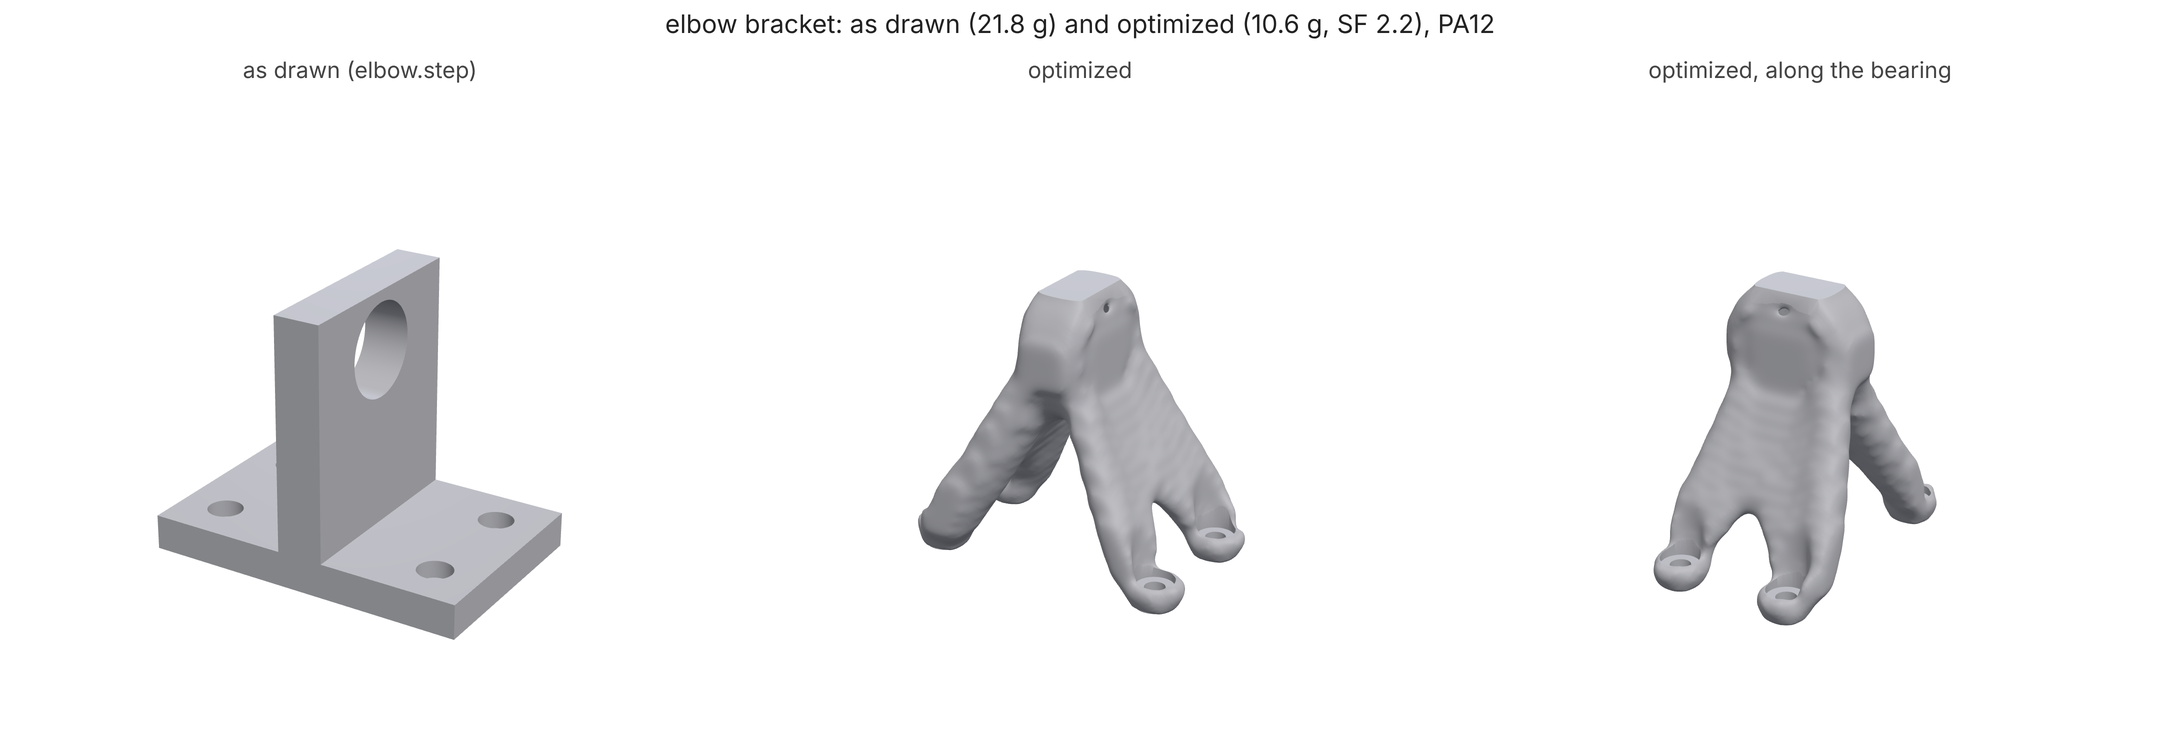
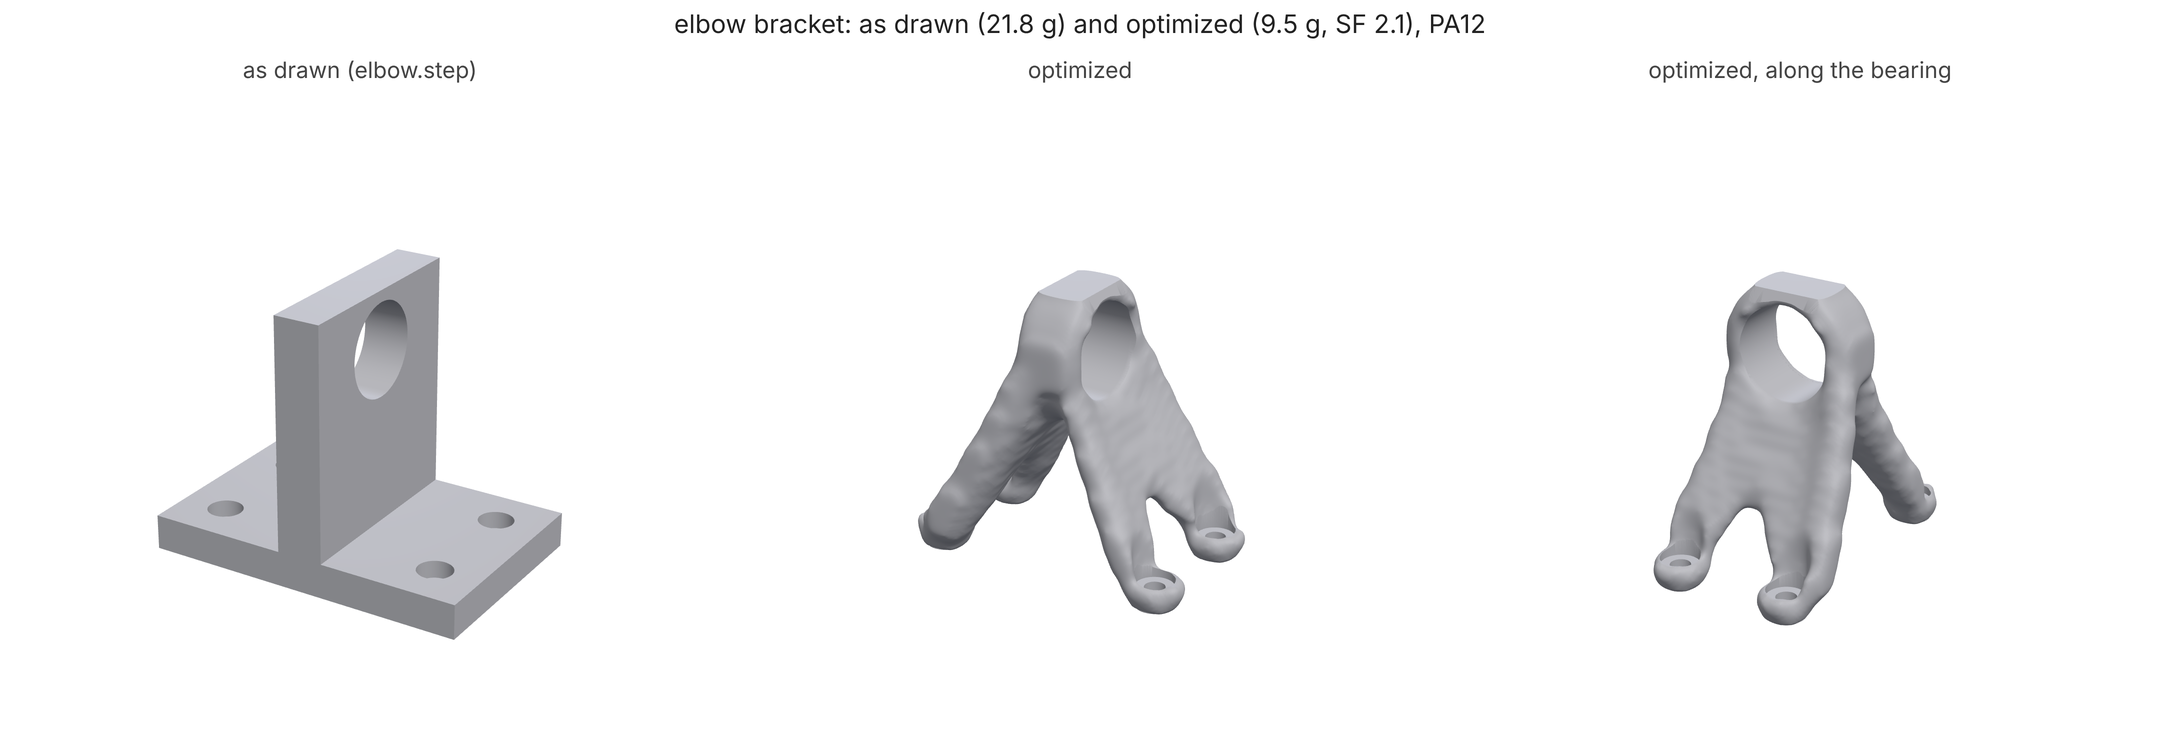
step-import tutorial: full-grid numbers and renders with the open bearing seat
Claude-Session: https://claude.ai/code/session_01HFwANX3h8z1Pa17Q81sH1D

diff --git a/docs/tutorials/step-import/README.md b/docs/tutorials/step-import/README.md
@@ -8,7 +8,7 @@ counterbored M3 screws, and an 8 mm upright carrying the shoulder shaft's
 printer. `loadpath import` reads the STEP, finds the screws, the bearing
 seat and the face the bracket bolts down on, and drafts a study round them;
 you put in the real loads, run it, and get the optimized bracket back as
-STEP for your CAD. About 35 minutes on 4 cores, 4 with `--quick`.
+STEP for your CAD. About 32 minutes on 4 cores, 3 with `--quick`.
 
 ![the bracket as drawn and as optimized](images/elbow.png)
 
@@ -111,20 +111,20 @@ Full grid, as the commands above run:
 | features found | 4 bolts (counterbored), 1 bore, 1 bolted face |
 | draft | hull design space, 2 preserved interfaces, support on the 4 screws |
 | grid | 47 236 cells at 1.04 mm |
-| best outcome | volume fraction 0.144, the lightest of three that pass |
-| mass (PA12) | **10.6 g**, from the drawn part's 21.8 g |
-| safety factor (worst case) | **2.20** (swing-right; swing-left 2.59, hang 3.95), goal 2 |
+| best outcome | volume fraction 0.138, the lightest of three that pass (a fourth, 0.116 at 8.4 g, reads SF 1.87) |
+| mass (PA12) | **9.5 g**, from the drawn part's 21.8 g |
+| safety factor (worst case) | **2.06** (swing-right; swing-left 2.09, hang 3.84), goal 2 |
 | one body / keep-out intrusion | yes / ~0 mm³ |
-| STEP (`out/elbow-14.step`) | one valid solid: 9 exact cylinders and 6 planes (15% of the area), the rest 16 877 facets; 42 MB |
+| STEP (`out/elbow-14.step`) | one valid solid: 11 exact cylinders and 6 planes (16% of the area), the rest 16 772 facets; 42 MB |
 
-Half the drawn part's mass, at the safety factor asked for, and still
+Under half the drawn part's mass, at the safety factor asked for, and still
 bolting on with the same four screws and carrying the same bearing. The
 swing cases set it: the 400 N straight down is the biggest load, but the
 sideways 200 N levered 36 mm up the upright is the hardest one.
 
 ## Quick mode
 
-`--quick` runs the study on 6000 cells and 30 iterations, in about 5
+`--quick` runs the study on 6000 cells and 30 iterations, in about 3
 minutes (a minute of it the STEP export). Its search is
 shorter too (three runs), so it stops at a heavier outcome: 12.6 g at SF
 5.3 (volume fraction 0.225), with the next lighter one it tries (0.15)
